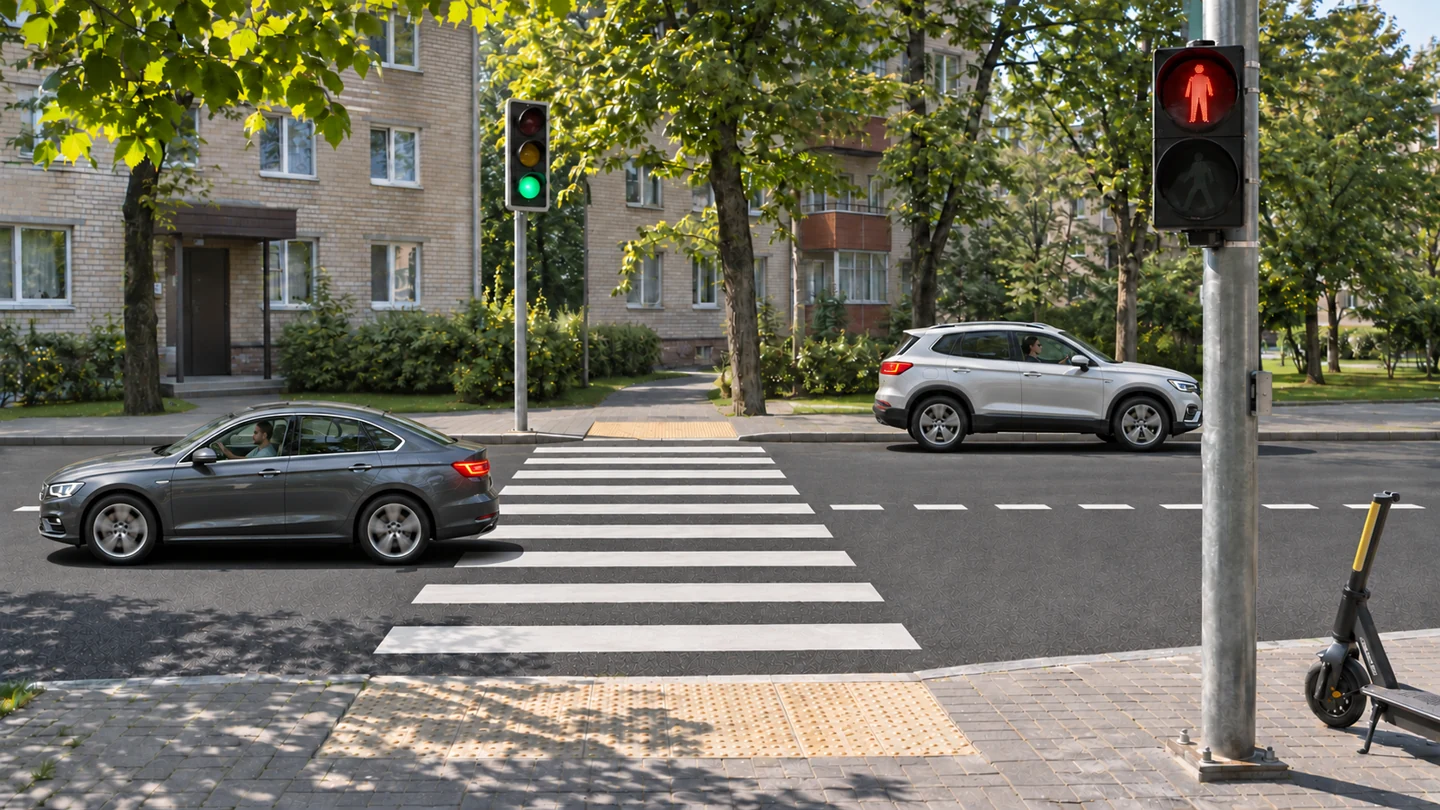
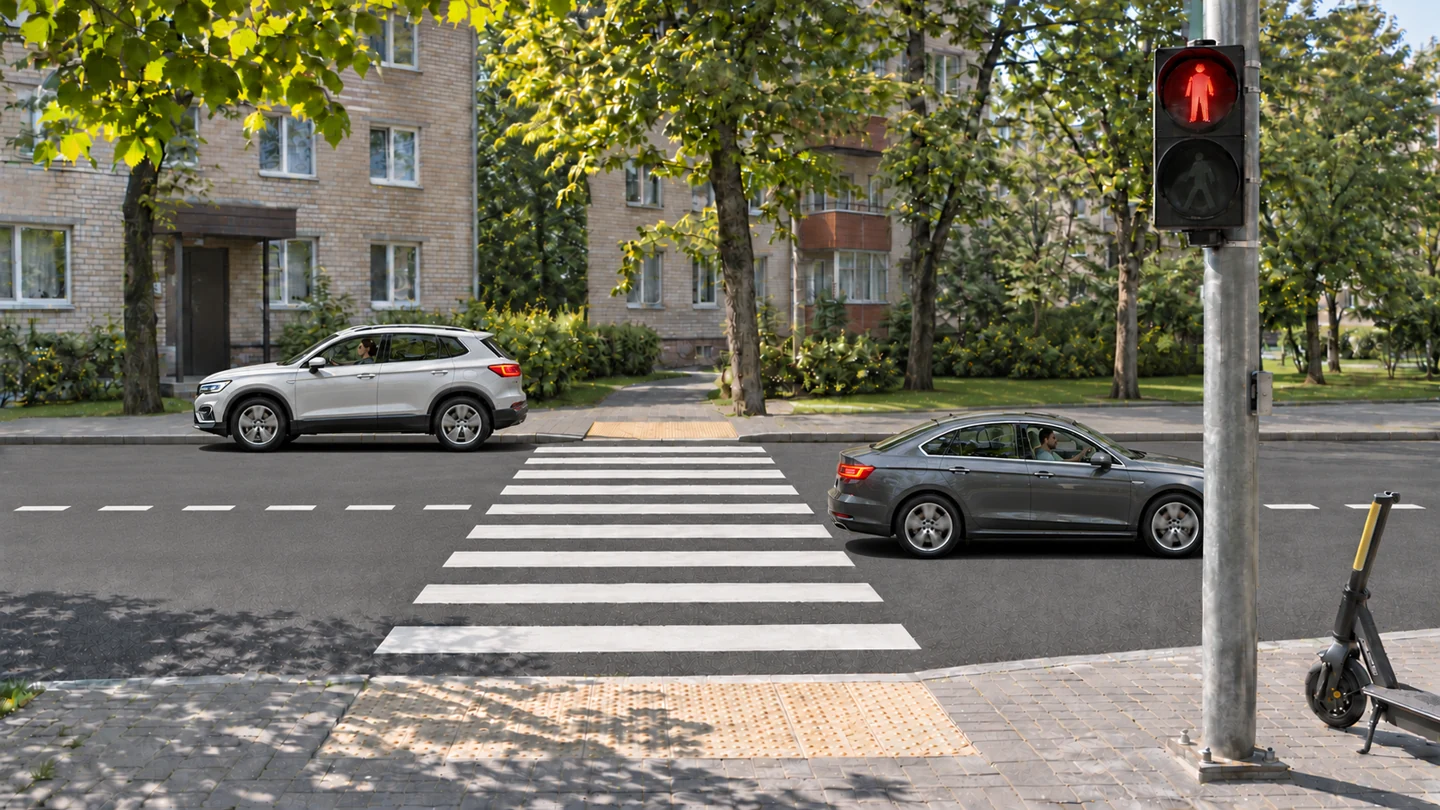
Correct right-hand traffic and remove extra signal

diff --git a/practice-demo.html b/practice-demo.html
@@ -48,7 +48,7 @@ main:has(#signal:not([hidden])) .feedback:not(:empty){margin-top:10px}main:has(#
 <g clip-path="url(#clear-driveway)" aria-hidden="true"><g id="exit-car"><ellipse cx="96" cy="91" rx="90" ry="5" fill="#172029" opacity=".32"/><image href="assets/practice-exit-car.webp" width="190" height="95"/></g></g>
 </svg></figure><div class="choices" id="places"></div></section>
 <section id="crossing" hidden><small>До секции · Сцена 3 из 6</small><h1 tabindex="-1">Друг уже на той стороне</h1><div class="cross-layout"><figure class="cross-frame"><img class="cross-photo" src="assets/rules-crossing.webp" alt="Подросток с самокатом у края тротуара перед зеброй" width="500" height="500"></figure><div class="cross-copy"><img class="cross-sign" src="assets/rules-signs/5.19.1.svg" alt="Знак пешеходного перехода" width="66" height="66"><p>Впереди зебра и вот такой знак. Светофора нет. Друг перешёл дорогу и машет тебе рукой.</p><h2>Как доберёшься до друга?</h2><div class="lines" id="cross-answers"></div></div></div></section>
-<section id="signal" hidden><small>До секции · Сцена 4 из 6</small><h1 tabindex="-1">Кому горит зелёный?</h1><div class="signal-layout"><figure class="signal-scene"><img src="assets/practice-traffic-crossing.webp" alt="Пешеходный переход: для пешеходов горит красный, для автомобилей — зелёный. Рядом стоит самокат."></figure><div class="signal-copy"><p>Вы дошли до следующего перекрёстка. Ты ведёшь самокат рядом. По дороге едут машины.</p><p>Друг спрашивает: «А нам уже можно?»</p><h2>Что ответишь другу?</h2><div class="lines" id="signal-answers"></div></div></div></section>
+<section id="signal" hidden><small>До секции · Сцена 4 из 6</small><h1 tabindex="-1">Можно ли переходить?</h1><div class="signal-layout"><figure class="signal-scene"><img src="assets/practice-traffic-crossing.webp" alt="Пешеходный переход: для пешеходов горит красный. На дороге две машины движутся в разных направлениях. Рядом стоит самокат."></figure><div class="signal-copy"><p>Вы дошли до следующего перекрёстка. Ты ведёшь самокат рядом. По дороге едут машины.</p><p>Друг спрашивает: «А нам уже можно?»</p><h2>Что ответишь другу?</h2><div class="lines" id="signal-answers"></div></div></div></section>
 <section id="friend" hidden><small>До секции · Сцена 5 из 6</small><h1 tabindex="-1">«Подвези до входа»</h1><p>После перекрёстка вы с другом уже видите спортцентр. До тренировки две минуты. Твой самокат рассчитан на одного.</p><figure class="dialog"><span class="speaker">Друг</span><blockquote>«Подвезёшь меня до входа? А то пешком я к началу не успею»</blockquote></figure><h2>Что ответишь?</h2><div id="replies" class="lines"></div></section>
 <section id="parking" hidden><small>До секции · Сцена 6 из 6</small><h1 tabindex="-1">Где оставить самокат?</h1><p>Ты у спортцентра. Перед тренировкой осталось припарковать самокат. Выбери место на картинке.</p>
 <figure id="parking-map"><img src="assets/practice-parking.webp" alt="Вход в спортцентр. Слева стеклянные двери, посередине пандус, справа площадка со стойками и велосипедом." width="1100" height="733"/>
